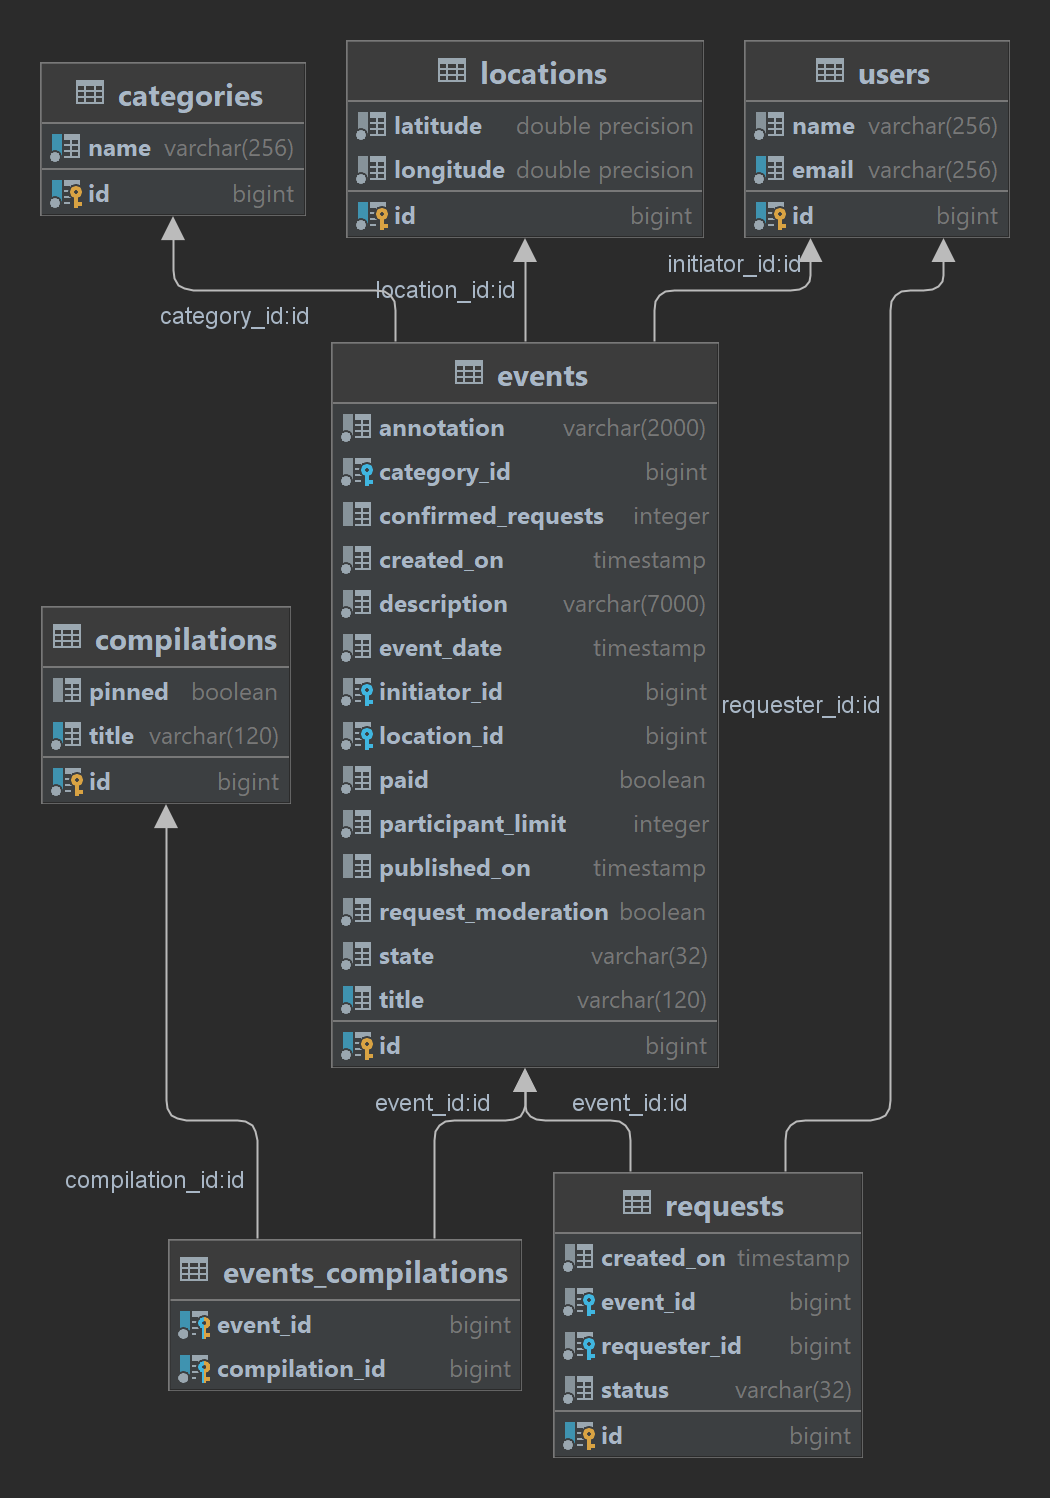
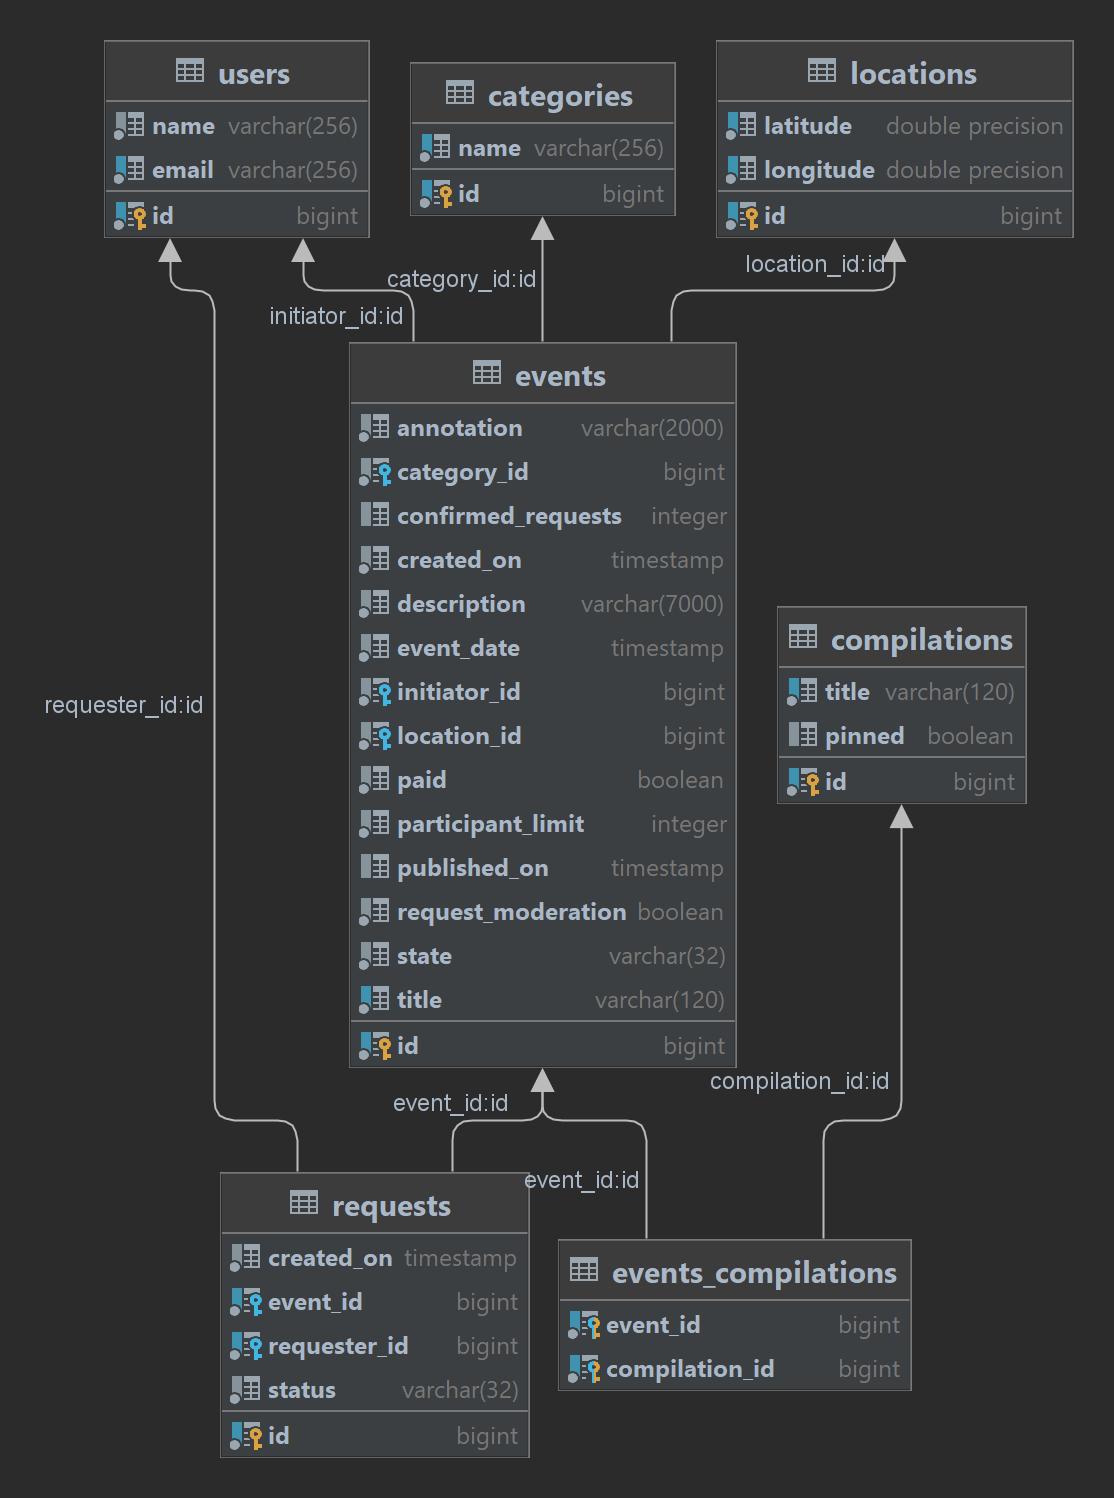
feat: обновить диаграммы БД + начать рефакторинг и очистку кода.

diff --git a/main/src/main/java/ru/practicum/ewmmain/controller/any/EventsRequestParameters.java b/main/src/main/java/ru/practicum/ewmmain/controller/any/EventsRequestParameters.java
@@ -2,9 +2,6 @@ package ru.practicum.ewmmain.controller.any;
 
 import lombok.*;
 
-import javax.validation.constraints.NotBlank;
-import javax.validation.constraints.Positive;
-import javax.validation.constraints.PositiveOrZero;
 import java.time.LocalDateTime;
 import java.util.Set;
 
@@ -15,8 +12,6 @@ import java.util.Set;
 @NoArgsConstructor
 @AllArgsConstructor
 public class EventsRequestParameters {
-
-    @NotBlank
     private String text;
     private Set<Long> categoryIds;
     private Boolean paid;
@@ -24,8 +19,6 @@ public class EventsRequestParameters {
     private LocalDateTime rangeEnd;
     private Boolean onlyAvailable;
     private String sort;
-    @PositiveOrZero
     private Integer from;
-    @Positive
     private Integer size;
 }

diff --git a/main/src/main/java/ru/practicum/ewmmain/controller/admin/AdminAccessController.java b/main/src/main/java/ru/practicum/ewmmain/controller/admin/AdminAccessController.java
@@ -126,7 +126,7 @@ public class AdminAccessController {
 
     @DeleteMapping("/compilations/{compId}/events/{eventId}")
     public void deleteEventFromCompilation(@PathVariable @Positive Long compId,
-                                      @PathVariable @Positive Long eventId) {
+                                           @PathVariable @Positive Long eventId) {
 
         log.debug("Удаление админом события с id = {} из подборки с id = {}.", eventId, compId);
         adminAccessService.deleteEventFromCompilation(compId, eventId);

diff --git a/main/src/main/java/ru/practicum/ewmmain/dto/EventFullDto.java b/main/src/main/java/ru/practicum/ewmmain/dto/EventFullDto.java
@@ -4,7 +4,6 @@ import com.fasterxml.jackson.annotation.JsonFormat;
 import lombok.Builder;
 import lombok.Getter;
 import lombok.Setter;
-import lombok.Value;
 import lombok.extern.jackson.Jacksonized;
 import ru.practicum.ewmmain.model.EventState;
 import ru.practicum.ewmmain.model.Location;
